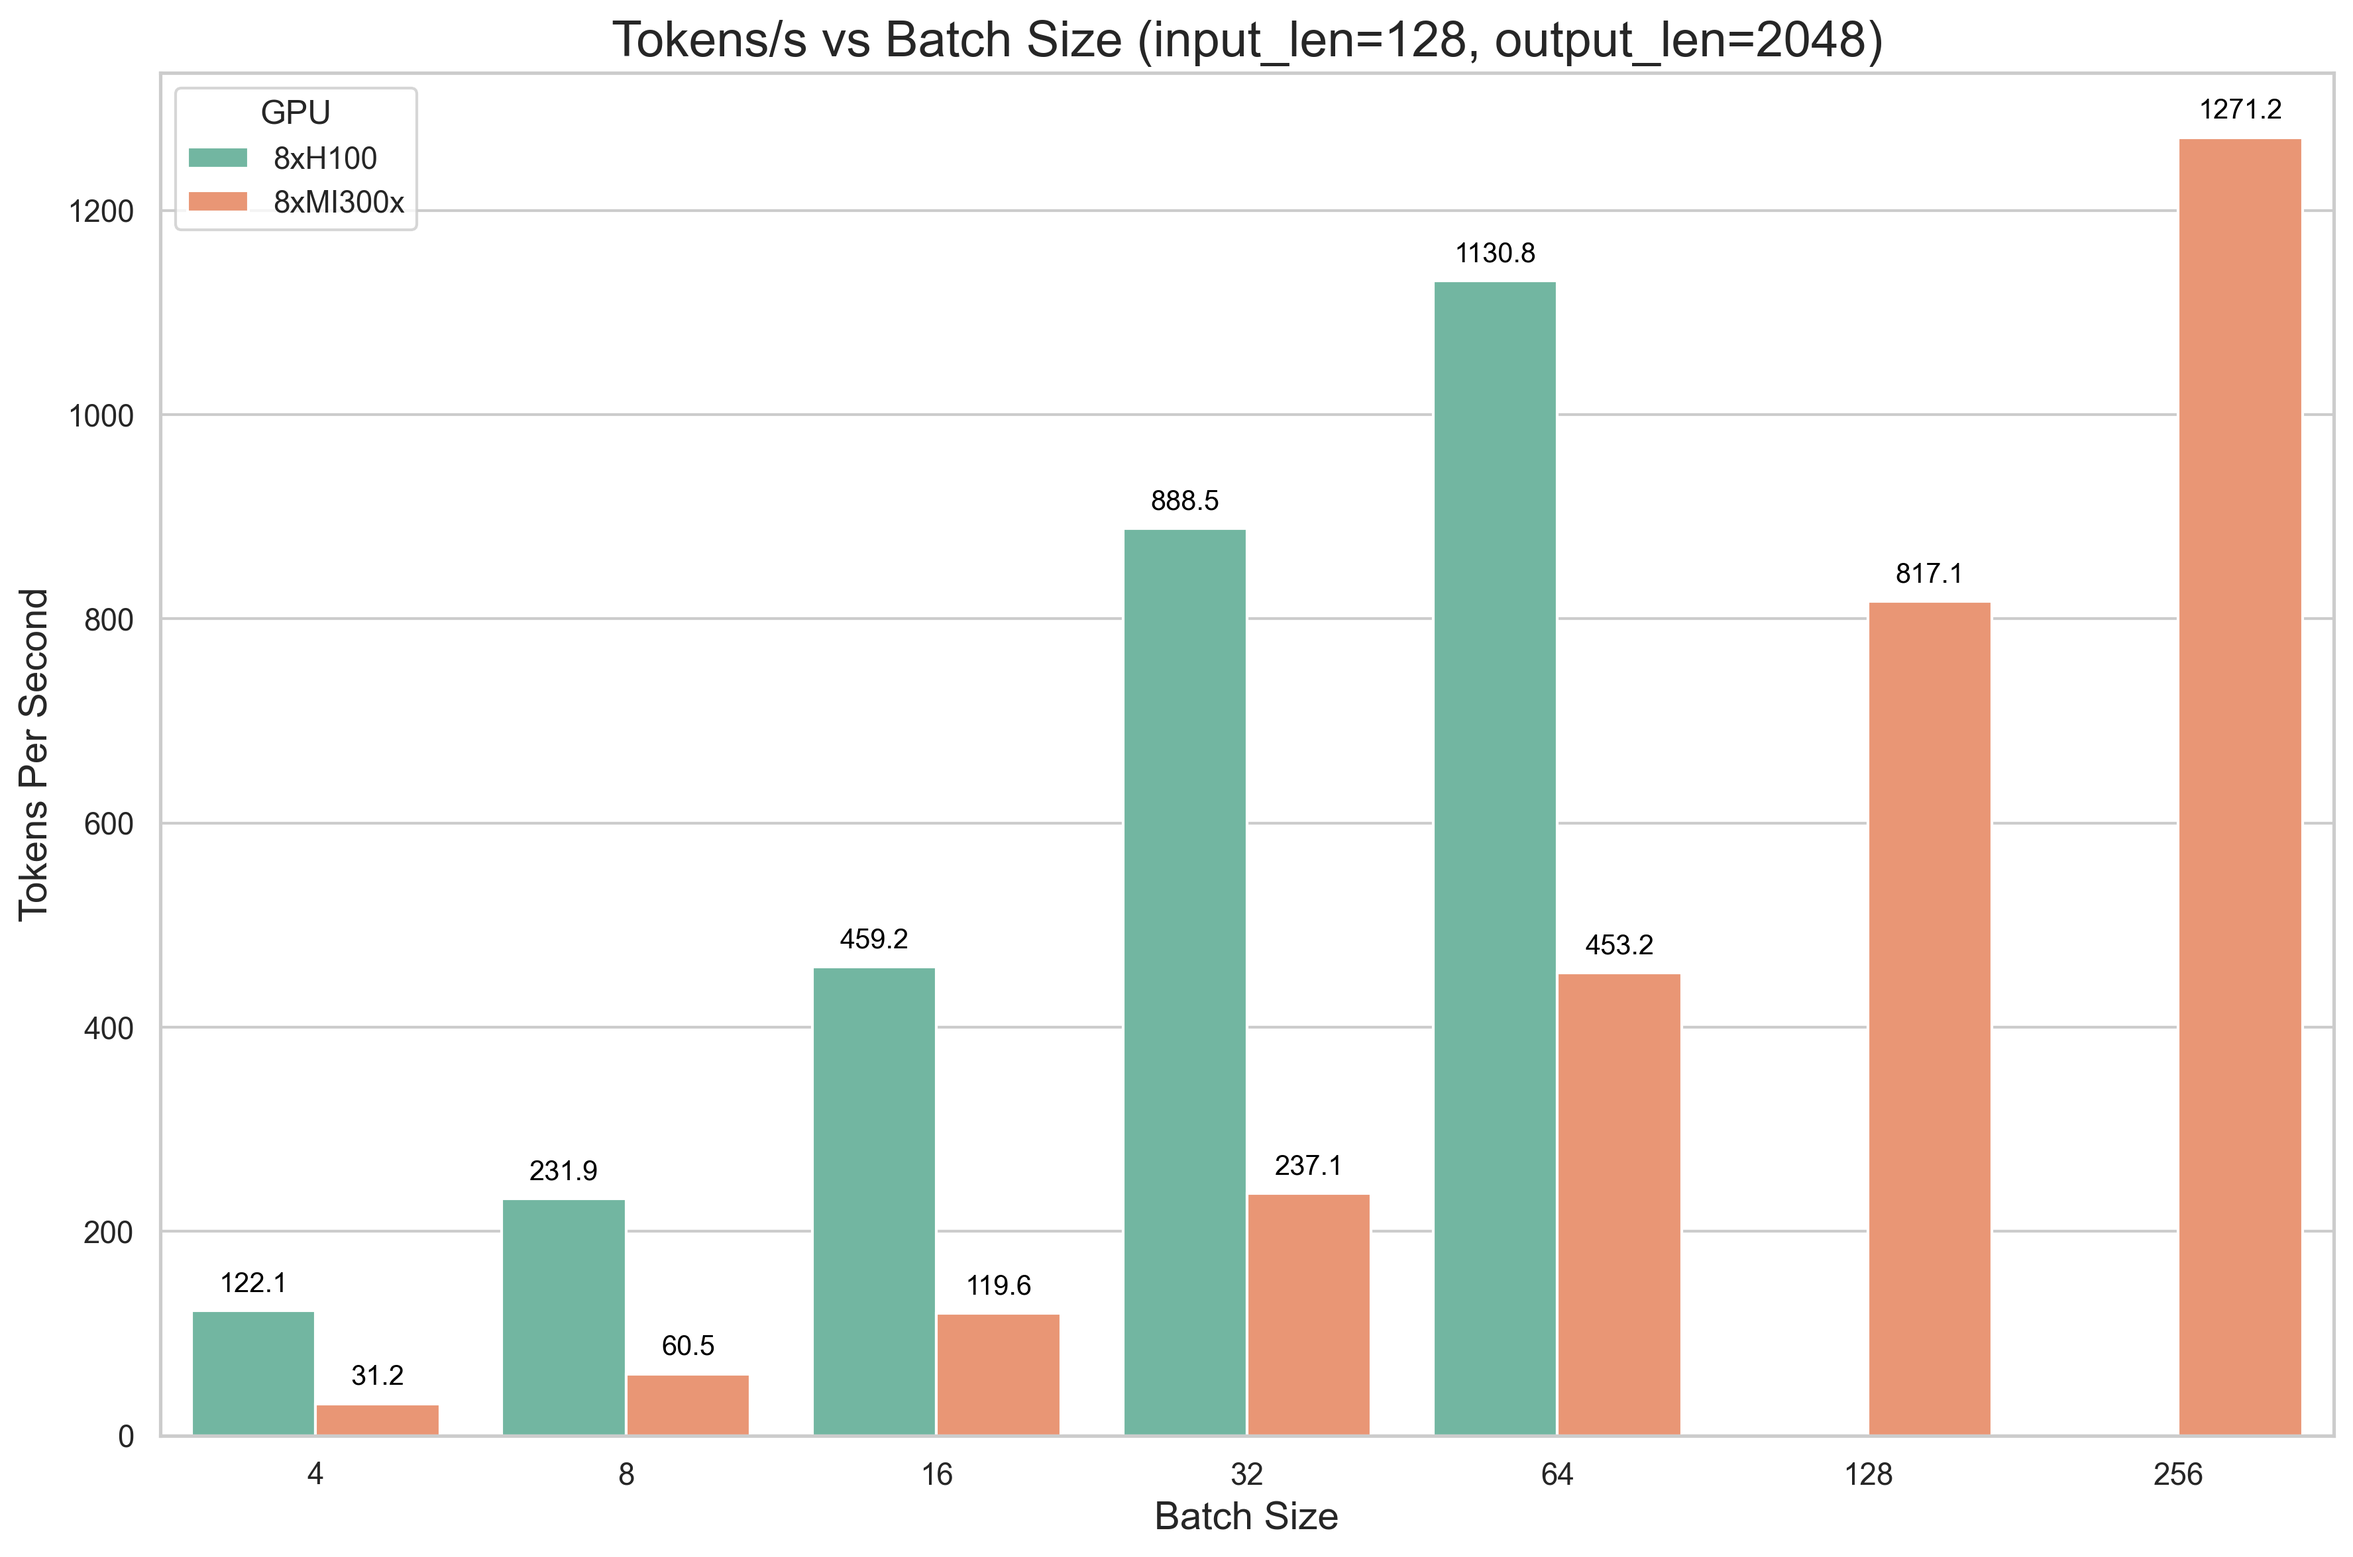
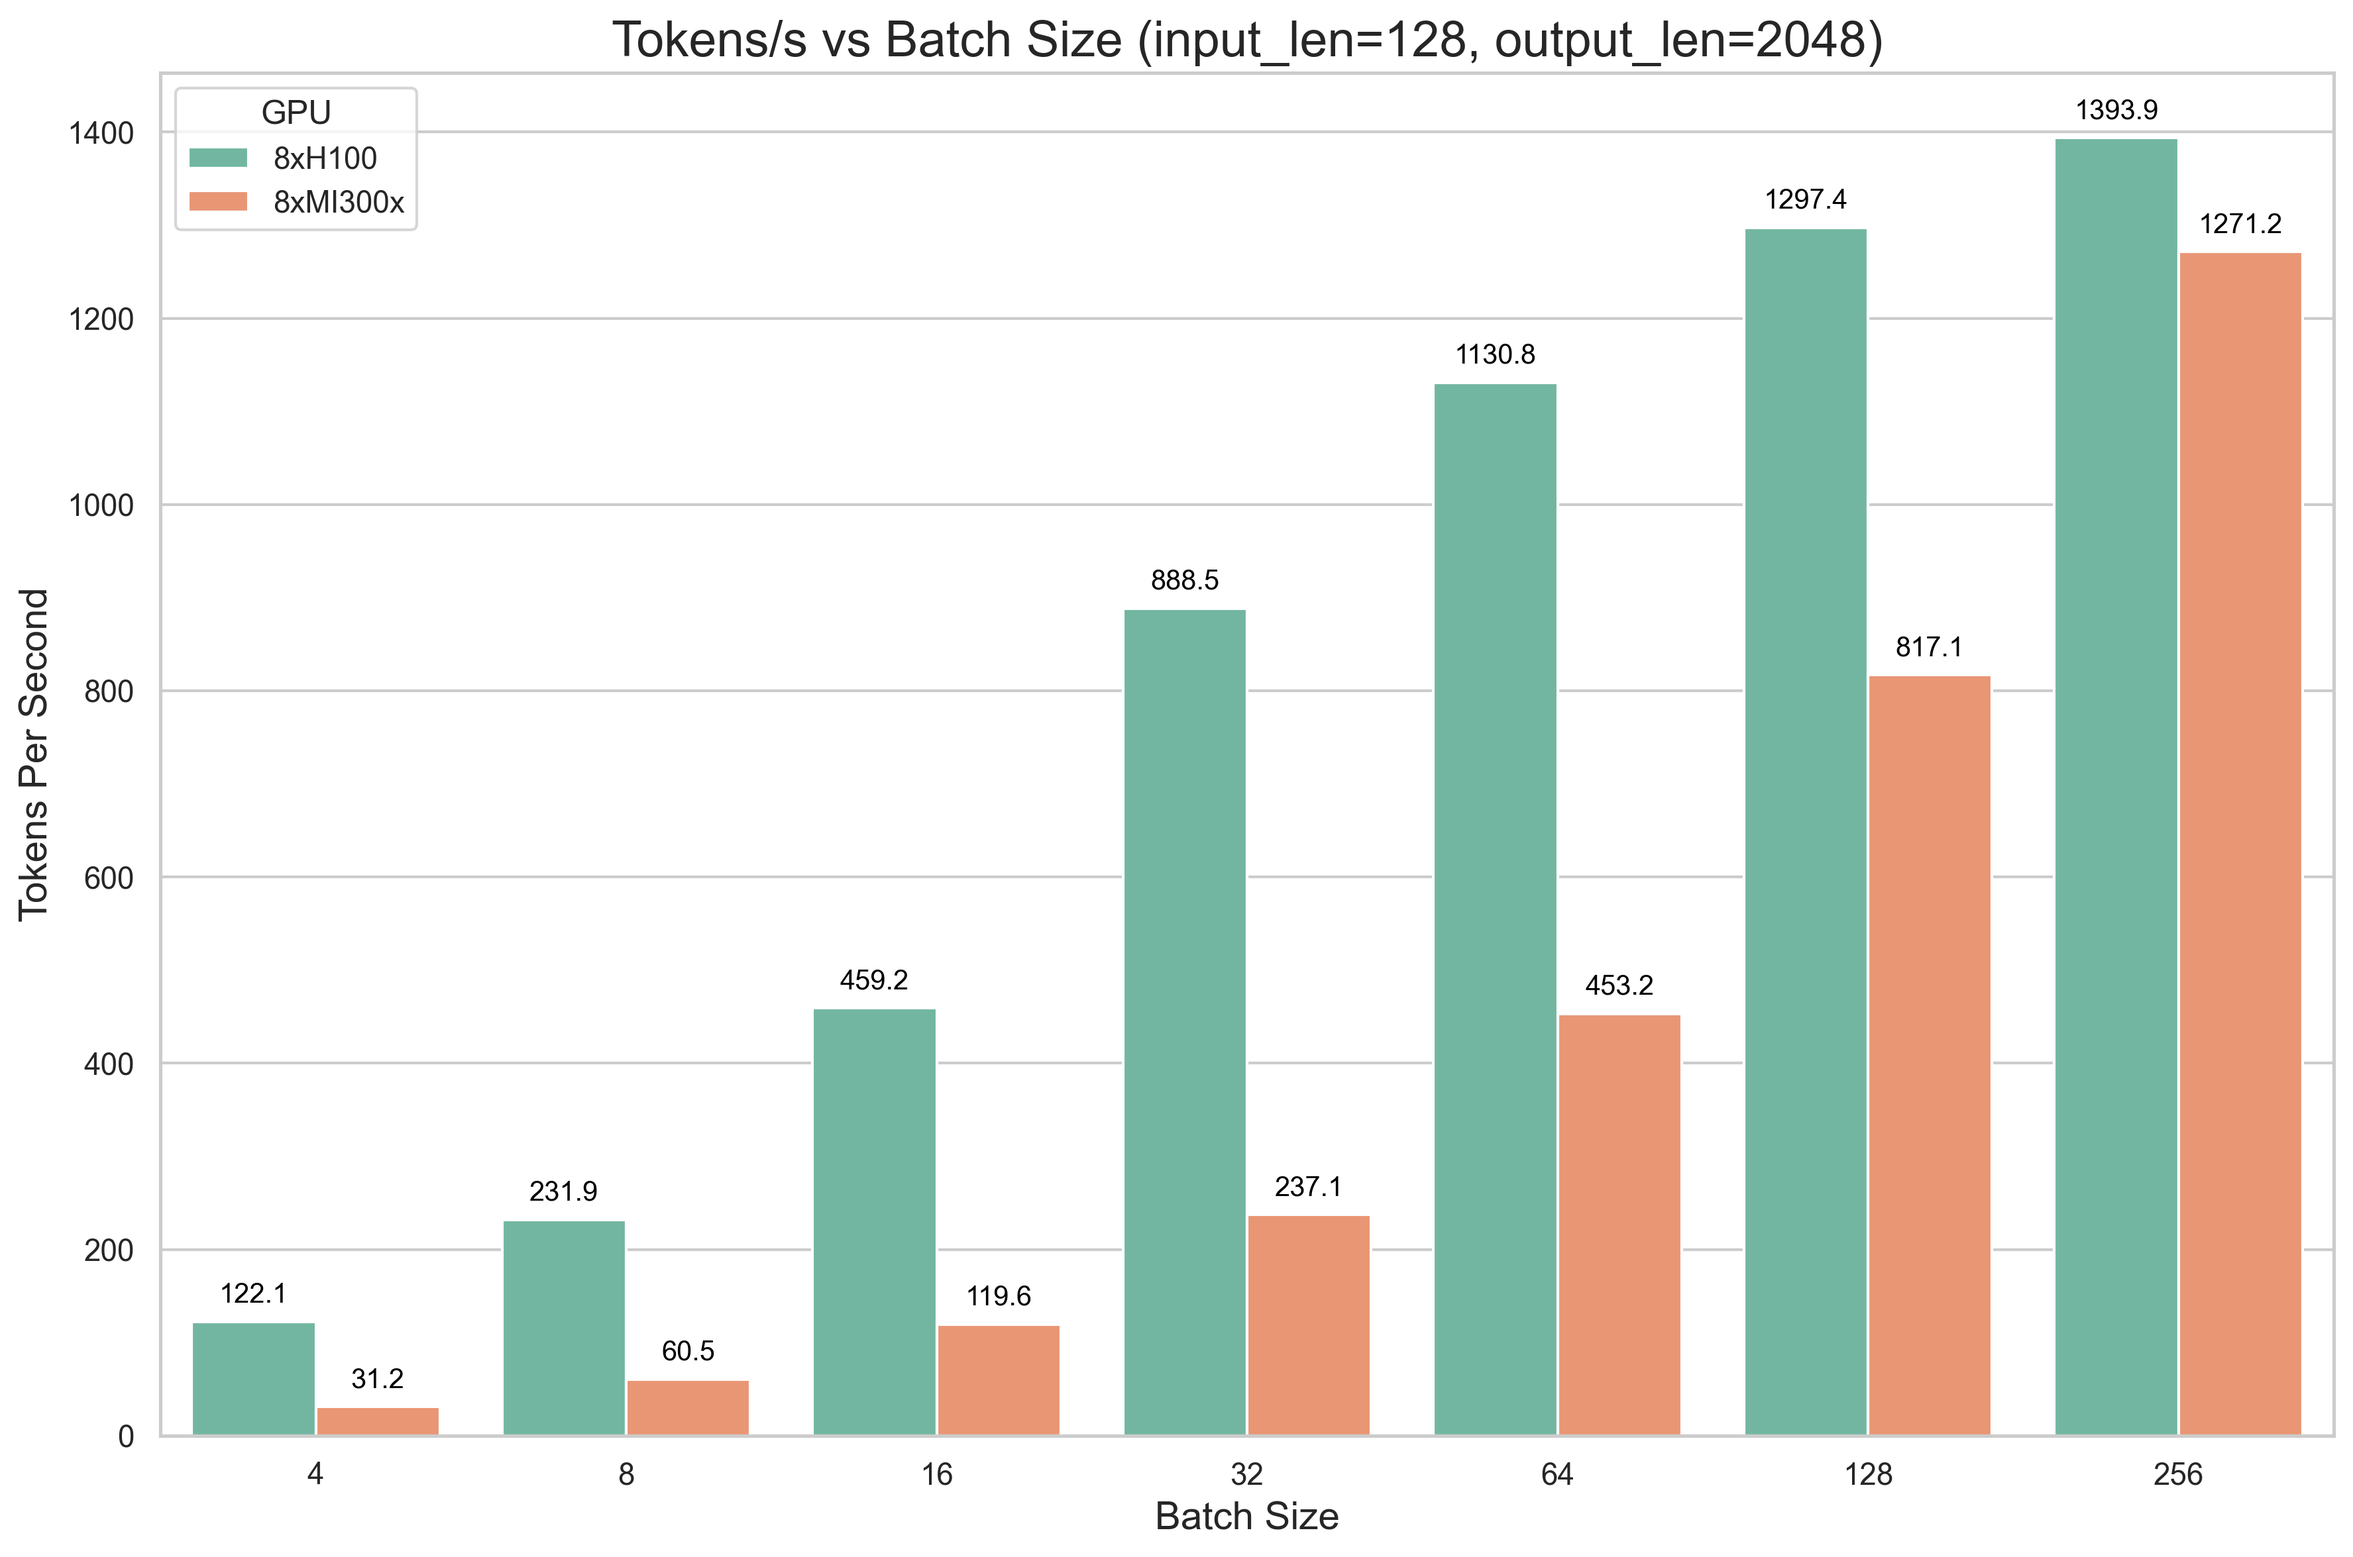
Add Key Findings

diff --git a/comparison/plot9.py b/comparison/plot9.py
@@ -1,0 +1,55 @@
+import pandas as pd
+import matplotlib.pyplot as plt
+import seaborn as sns
+import sys
+
+# Read the CSV file
+df = pd.read_csv('latency_comparison.csv')
+
+# Normalize column names
+df.columns = df.columns.str.strip().str.lower().str.replace(' ', '_')
+
+# Define column names
+gpu_col = 'gpu'
+input_len_col = 'input_len'
+output_len_col = 'output_len'
+batch_size_col = 'batch_size'
+end_to_end_latency_col = 'end_to_end_latency'
+tokens_per_second_col = 'tokens_per_second'
+
+# Verify required columns
+required_columns = [gpu_col, end_to_end_latency_col, tokens_per_second_col]
+missing_columns = [col for col in required_columns if col not in df.columns]
+if missing_columns:
+    print(f"Error: Missing columns {missing_columns}")
+    sys.exit(1)
+
+# Set seaborn style
+sns.set(style="whitegrid")
+
+# Initialize figure
+plt.figure(figsize=(12, 8))
+
+# Create line plot for each GPU
+sns.lineplot(
+    x=end_to_end_latency_col,
+    y=tokens_per_second_col,
+    hue=gpu_col,
+    data=df,
+    marker=None
+)
+
+# Set title and labels
+plt.title('Tokens Per Second vs End-to-End Latency for Different GPUs', fontsize=18)
+plt.xlabel('End-to-End Latency', fontsize=14)
+plt.ylabel('Tokens Per Second', fontsize=14)
+plt.legend(title='GPU')
+
+# Optimize layout
+plt.tight_layout()
+
+# Save the plot
+plt.savefig('images/tokens_per_second_vs_end_to_end_latency_comparison_gpus.png', dpi=300, bbox_inches='tight')
+
+# Display the plot
+plt.show()

diff --git a/comparison/README.md b/comparison/README.md
@@ -403,9 +403,15 @@ python benchmark_throughput.py --backend vllm --model "meta-llama/Llama-3.1-405B
 1. When `input-len=2048` and `output-len=2048`, `8xH100 SXM5` beats `8xMI300x` across batch sizes 4 to 64. At batch size
 128 and 256, `8xMI300x` beats `8xH100 SXM5`
 ![tokens_per_second_vs_batch_size_2048_2048_comparison_gpus.png](images/tokens_per_second_vs_batch_size_2048_2048_comparison_gpus.png)
-
-2. #todo: other input-len, output-len combinations
-3. #todo: latency benchmark comparison
+2. When `input-len=128` and `output-len=2048`, `8xH100 SXM5` beats `8xMI300x` significantly across batch sizes 4 to 128.
+![tokens_per_second_vs_batch_size_128_2048_comparison_gpus.png](images/tokens_per_second_vs_batch_size_128_2048_comparison_gpus.png)
+3. When `input-len=32784` and `output-len=2048`, `8xH100 SXM5` beats `8xMI300x` significantly at batch size 4. `8xH100 SXM5` shows minimal
+improvement in throughput as batch size increases. Upto batch size 32, `8xMI300x` shows improvement in throughput as batch size increases. 
+![tokens_per_second_vs_batch_size_32784_2048_comparison_gpus.png](images/tokens_per_second_vs_batch_size_32784_2048_comparison_gpus.png)
+4.To plot throughput-latency curve, we combined the Throughput(tokens/s) results from `benchmark_throughput.py` with `End-to-End latency(s)` results from `benchmark_latency.py` 
+at `input_len=2048` and `output_len=2048`. Upto ~1000 tokens/s throughput `8xH100 SXM5` provides better end to end latency for same
+throughput values. After ~1000 tokens/s throughput `8xMi300x` provides better end to end latency.
+![tokens_per_second_vs_end_to_end_latency_comparison_gpus.png](images/tokens_per_second_vs_end_to_end_latency_comparison_gpus.png)
 
 ### TODOs
 1. We plan to test 2 instances of Llama3.1-405B-FP8 each on 4 GPUs.
